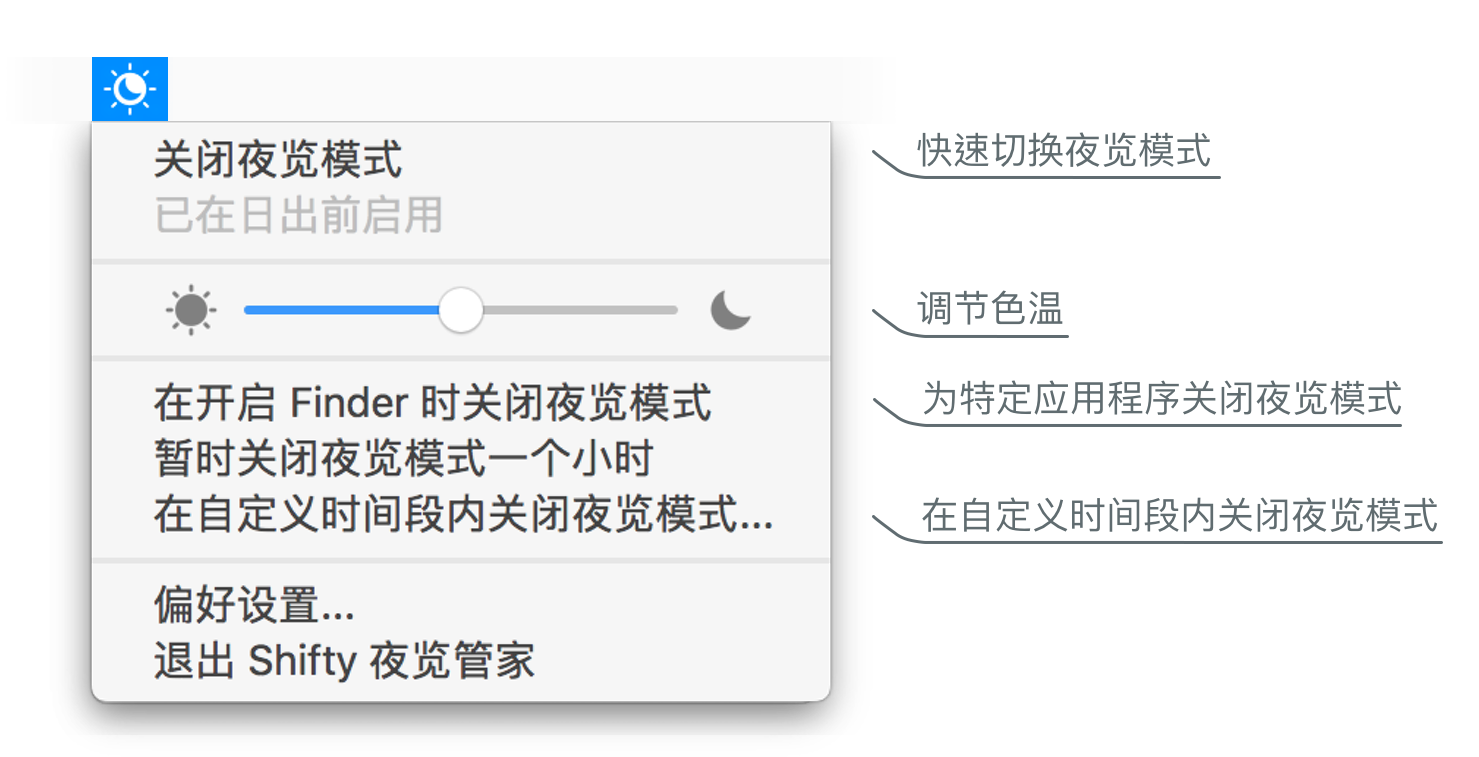
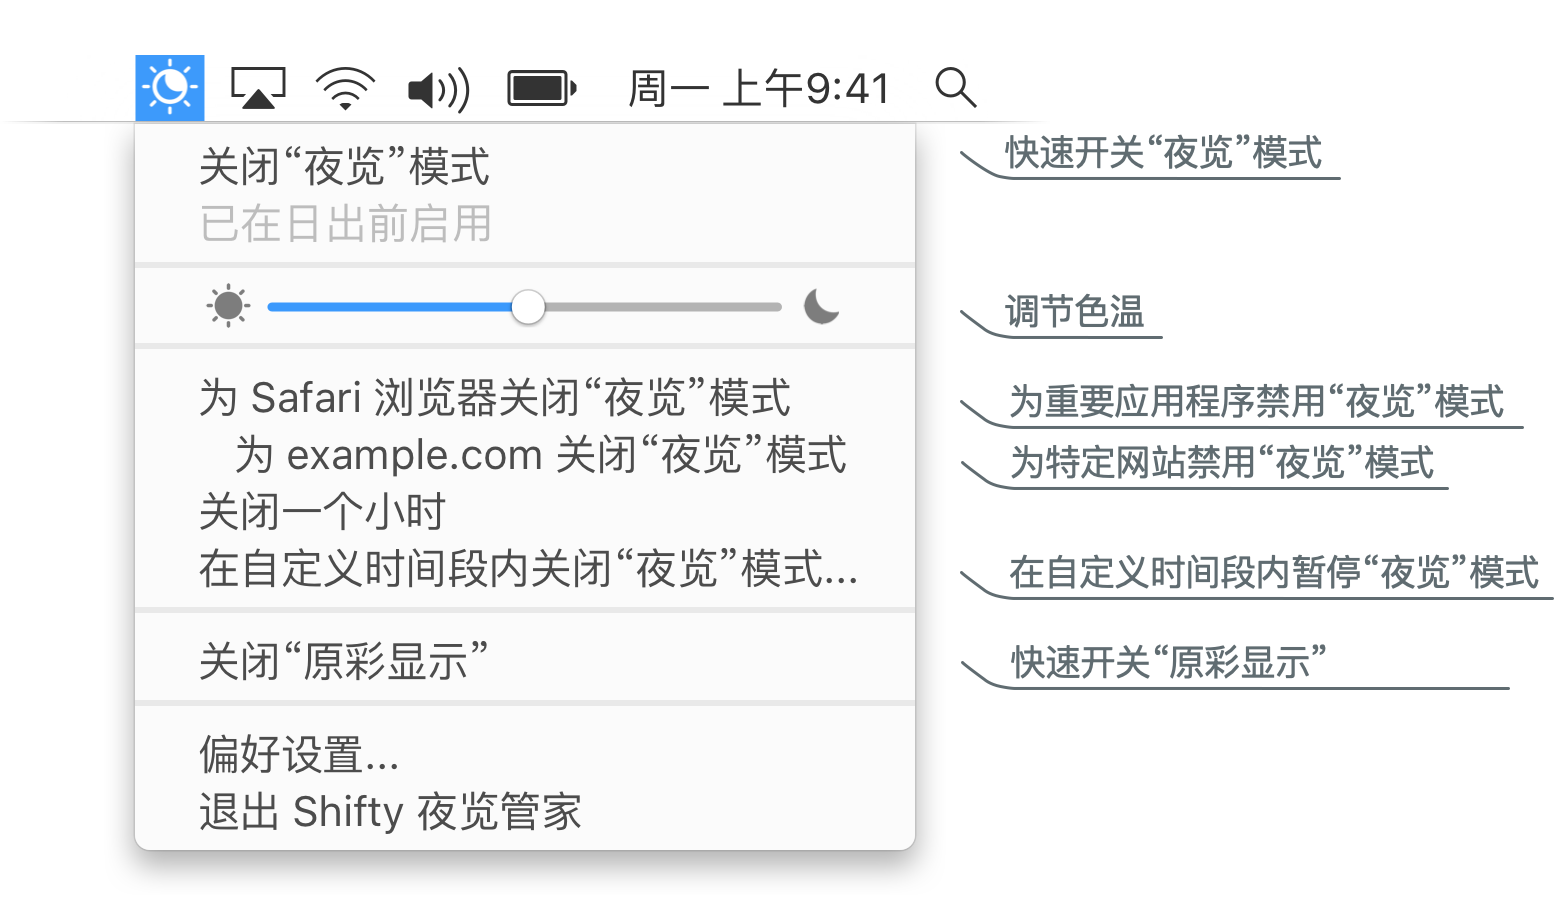
Website 1.0 (#60)
* add Chinese translations

* update app icon and English text

* add German and

* use liquid tags to populate supported lang array

* add updated screenshots

Changed region(s): [[0.0311, 0.0608, 1.0, 0.9723], [0.5909, 0.0608, 0.622, 0.1215]]

diff --git a/docs/_includes/footer.html b/docs/_includes/footer.html
@@ -1,7 +1,7 @@
 <footer class="site-footer">
   <div class="site-footer-contents">{{ translation.made_by | replace: "MAINSITE_LINK", site.mainsite_link | markdownify | remove: '<p>' | remove: '</p>' }}</div>
   <div class="site-footer-contents">{{ translation.feedback | replace: "MAILTO_LINK", site.mailto_link | markdownify | remove: '<p>' | remove: '</p>' }}</div></span>
-  <!-- <div class="site-footer-contents">{{ translation.language }}
+  <div class="site-footer-contents">{{ translation.language }}
     <select name="language" onchange="location = this.value">
       {% assign pages=site.pages | where:"ref", page.ref | sort: 'lang' %}
 
@@ -11,7 +11,7 @@
       {% if p.lang == "en" %}
       {% assign lang = p_translation.lang_name %}
       {% else %}
-      {% assign lang = p_translation.lang_name | append: " — " | append: p_translation.lang_name_eng %}
+      {% assign lang = p_translation.lang_name | append: " — (" | append: p_translation.lang_name_eng | append: ")" %}
       {% endif %}
 
       {% if p.url == page.url %}
@@ -21,5 +21,5 @@
       {% endif %}
       {% endfor %}
     </select>
-  </div> -->
+  </div>
 </footer>

diff --git a/docs/index.html b/docs/index.html
@@ -7,9 +7,20 @@
 {% include langhead.html %}
 </head>
 
+{% assign pages=site.pages | where:"ref", 'home' | sort: 'lang' %}
+
 <body>
 <script>
-var supported = ['en'];
+var supported = [
+{% assign supportedLangs = pages | map: 'lang' %}
+{% for lang in supportedLangs %}
+  {% if lang == supportedLangs.last %}
+    '{{ lang }}'
+  {% else %}
+    '{{ lang }}',
+  {% endif %}
+{% endfor %}
+];
 var languages = getLangs();
 redirect();
 
@@ -33,8 +44,6 @@ function getLangs(){
 
 <p>If you are not automatically redirected, choose a language:</p>
 <ul>
-  {% assign pages=site.pages | where:"ref", 'home' | sort: 'lang' %}
-
   {% for p in pages %}
   {% assign p_translation = site.data.translations[p.lang] %}
 

diff --git a/docs/_layouts/default.html b/docs/_layouts/default.html
@@ -31,7 +31,7 @@
     <img class="project-icon" src="/images/shifty-color-256.png" alt="Shifty icon">
     <h1 class="project-name">{{ translation.shifty }}</h1>
     <h2 class="project-tagline">{{ translation.tagline }}</h2>
-    <a id="downloadButton" class="btn">{{ translation.download_beta }}</a>
+    <a id="downloadButton" class="btn">{{ translation.download }}</a>
     <a id="view-on-github" href="{{ site.repository_link }}" class="btn">{{ translation.view_github }}</a>
   </section>
 

diff --git a/docs/zh-cn/index.md b/docs/zh-cn/index.md
@@ -4,7 +4,7 @@ layout: default
 ref: home
 lang: zh-cn
 ---
-Shifty 夜览管家为 macOS 内置的夜览模式赋予更多便捷与自定义控制选项。你可以设置在开启特定应用程序后，或在自定义时间段内暂时关闭夜览模式。此外，易于访问的滑块使完善色温变得轻而易举。有了 Shifty 夜览管家，夜览模式得以成为专业用户的天作之合。
+Shifty 夜览管家为 macOS 内置的夜览模式赋予更多便捷与自定义控制选项。 你可为特定应用程序、网站和在自定义时间段暂时关闭“夜览”模式。 此外，易于访问的滑块使完善色温变得轻而易举。 有了 Shifty 夜览管家，“夜览”模式得以成为专业用户的天作之合。
 
 <div id="screenshot-container">
   <img class="shifty-screenshot" src="images/shifty-screenshot-large.png"/>
@@ -12,18 +12,28 @@ Shifty 夜览管家为 macOS 内置的夜览模式赋予更多便捷与自定义
 
 <div class="row prefs-columns">
   <div class="col-sm-6 prefs-text">
-    你也可以自定义 Shifty 夜览管家！启用快速切换功能以一键开启或关闭夜览模式，或根据夜览模式的设定时间自动启用暗色菜单栏和程序坞。此外，你还可以通过设置全局快捷键激活常用的 Shifty 夜览管家功能。
+    你也可以自定义 Shifty 夜览管家！
+    <ul>
+      <li>通过快速开关轻松控制“夜览”模式</li>
+      <li>随“夜览”的设定时间开关深色模式</li>
+      <li>“夜览”模式对应的规则同时适用于“原彩显示”</li>
+      <li>为常用的 Shifty 夜览管家功能设置全局键盘快捷方式</li>
+    </ul>
   </div>
   <div class="col-sm-6">
     <img id="prefs-general" src="images/prefs-general-screenshot.png">
   </div>
 </div>
 
-##### 系统要求：
+##### 系统要求:
+
 * macOS 10.12.4 或更高版本
-* Mac 电脑机型符合[夜览模式的系统需求](https://support.apple.com/zh-cn/HT207513#requirements)
+* Mac 电脑机型符合[夜览模式的系统需求](https://support.apple.com/HT207513#requirements)
+* 网站色温调节支持 Safari 浏览器、Chrome 和 Vivaldi
+* 需要在[兼容“原彩显示”的 Mac](https://support.apple.com/HT208909) 运行 macOS 10.14 或更高版本才能使用相关功能
 
-<br>
-如果你钟爱 Shifty，[向开发者贡献自己的一份捐助]({{ site.donate_link_usd }})。
+<br /> 如果你钟爱并乐于改善 Shifty 夜览管家，[向开发者贡献自己的一份捐助]({{ site.donate_link_usd }})。
 
-Shifty 夜览管家免费且开源，应用程序遵循 [GPLv3 许可协议]({{ site.license_link }}). [在 Github 查看项目源码]({{ site.repository_link }})
+Shifty 夜览管家免费且开源，许可证为 [GPLv3]({{ site.license_link }})。 [通过 GitHub 参与开发]({{ site.repository_link }})
+
+如果网站或应用程序中的翻译存在不妥，请考虑通过[这里](/translate)贡献您的翻译。

diff --git a/docs/de/index.md b/docs/de/index.md
@@ -1,0 +1,39 @@
+---
+title: Shifty - Mehr Kontrolle für Night Shift
+layout: default
+ref: home
+lang: de
+---
+Shifty erweitert die Möglichkeiten der Night-Shift-Funktion in macOS. Night Shift kann für bestimmte Apps, Webseiten und einstellbare Zeiten deaktiviert werden. Der Zugriff auf einen Schieberegler zum genauen Einstellen der Farbtemperatur ist auch verfügbar. Mit Shifty wird Night Shift zur Power-Funktion!
+
+<div id="screenshot-container">
+  <img class="shifty-screenshot" src="images/shifty-screenshot-large.png"/>
+</div>
+
+<div class="row prefs-columns">
+  <div class="col-sm-6 prefs-text">
+    Shifty ist anpassbar!
+    <ul>
+      <li>Vereinfachen Sie das Umschalten von Night Shift mit Schnelles Umschalten</li>
+      <li>Dunkelmodus mit Shiftys Zeitplan setzen</li>
+      <li>Night Shift Regeln beeinflussen auch True Tone</li>
+      <li>Für häufige Shifty-Aktionen globale Tastenkombinationen setzen</li>
+    </ul>
+  </div>
+  <div class="col-sm-6">
+    <img id="prefs-general" src="images/prefs-general-screenshot.png">
+  </div>
+</div>
+
+##### Systemanforderungen:
+
+* macOS 10.12.4 oder höher
+* Das System erfüllt die [Night-Shift-Arforderungen](https://support.apple.com/HT207513#requirements)
+* Webseiten-Shift unterstützt Safari, Chrome und Vivaldi
+* True Tone Funktionen benötigt einen [unterstützten Mac](https://support.apple.com/HT208909) und macOS 10.14 oder höher
+
+<br /> Shifty unterstützen und [spenden]({{ site.donate_link_usd }}), um es noch besser zu machen.
+
+Shifty ist gratis und als Open-Source unter der [GPLv3]({{ site.license_link }}) lizenziert. [Bei GitHub mitwirken]({{ site.repository_link }})
+
+Bei Verbesserungsvorschlägen zu Übersetzungen auf der Webseite oder in der App <a href="/translate">bitte hier mithelfen</a>.

diff --git a/docs/en/index.md b/docs/en/index.md
@@ -12,7 +12,13 @@ Shifty was made to expand the capabilities of the built in Night Shift feature i
 
 <div class="row prefs-columns">
   <div class="col-sm-6 prefs-text">
-    Shifty is customizable! Make it easier to toggle Night Shift with Quick Toggle or set dark mode based on the schedule. For common Shifty actions, you can set global keyboard shortcuts.
+    Shifty is customizable!
+    <ul>
+      <li>Make it easier to toggle Night Shift with Quick Toggle</li>
+      <li>Set dark mode to follow the Night Shift schedule</li>
+      <li>Make Night Shift rules also affect True Tone</li>
+      <li>For common Shifty actions, set global keyboard shortcuts</li>
+    </ul>
   </div>
   <div class="col-sm-6">
     <img id="prefs-general" src="images/prefs-general-screenshot.png">
@@ -22,7 +28,8 @@ Shifty was made to expand the capabilities of the built in Night Shift feature i
 ##### System requirements:
 * macOS 10.12.4 or later
 * System meets the [requirements for Night Shift](https://support.apple.com/HT207513#requirements)
-* Website shifting supports Safari, Chrome, and Vivaldi.
+* Website Shifting supports Safari, Chrome, and Vivaldi
+* True Tone features require a [supported Mac](https://support.apple.com/HT208909) and macOS 10.14 or later
 
 <br>
 If you love Shifty, consider [donating]({{ site.donate_link_usd }}) to help me make it better.
